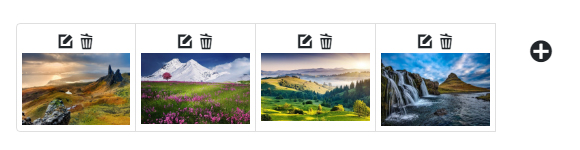
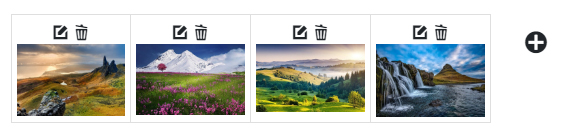
removed border radius

Changed region(s): [[0.0, 0.1515, 0.8695, 0.9394], [0.0, 0.0909, 0.8695, 0.1212], [0.8995, 0.2424, 0.9894, 0.4242]]

diff --git a/ImageUpload.css b/ImageUpload.css
@@ -13,6 +13,8 @@
     padding: 5px;
     background-color: transparent;
     text-align: center;
+    border-top-left-radius: 0;
+    border-bottom-left-radius: 0;
 }
 .list-product-img {
     max-width: 110px;
